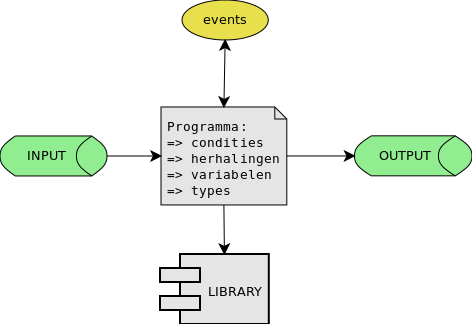
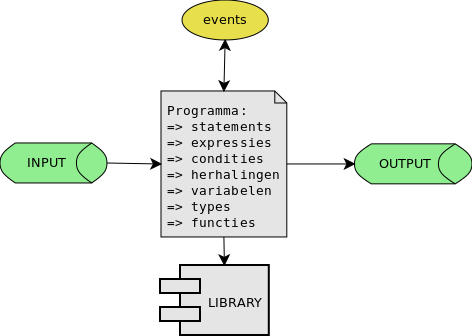
Additions to coding-intro

diff --git a/nl/code_introduction.md b/nl/code_introduction.md
@@ -3,44 +3,78 @@
 Programmeren kan **moeillijk** zijn en kan snel **demotiveren** bij de verkeerde en ongefundeerde aanpak.  
 In dit eerste hoofdstuk proberen we dit te omzeilen door eerst de basis-concepten van een programma uit te leggen.  
 
-### Wat is een programma?
-Een programma (of software) is een bestand dat een sequentie van instructies bevat die door een computer (meer bepaald een processor) worden uitgevoerd.
+### Wat doet een programma (vanop 10000 meter hoogte)?
+Een programma (en software in het algemeen) is in essentie:
 
-### Creatie van een C-programma
-#### C-programma is een tekstfile met instructies
-In deze cursus leren we programma's schrijven in C, C is een taal waarmee we deze instructies kunnen uitdrukken.  
-Het is lang niet de enige taal maar wel 1 van de talen die zeer goed past bij het ontwikkelen op micro-controllers.
+* een (of meerdere) **bestand**(en)  die een welbepaalde **sequentie van instructies** bevatten
+* die door een **computer** (meer bepaald een processor) worden **uitgevoerd**.
+
+![](../pictures/intro_external_logical_computer_view.png)
+
+Een **CPU (processor)** is in een computer verantwoordelijk voor het 1 voor 1 verwerken van deze instructies en heeft toegang tot een geheugen voor het opslaan van data.
+
+### Structuur van een programma's
+
+Binnen zo een programma zijn er verschillende soorten instructies:  
+
+* Berekeningen maken
+* Afdrukken van het resultaat op een scherm of een andere medium
+* Herhalen van instructies
+* Enkel uitvoeren van deze instructies onder bepaalde voorwaarden
+* Lezen van randapparatuur (bv. scherm, toetsenbord, ...)  
+* ...
+
+![](../pictures/basic_structure_programm.png)
+
+> In somige gevallen kunnen deze instructies zelfs opgeroepen worden bij bepaalde events (wordt pas later besproken)
+
+Hoe dat dit in zijn werk gaat bekijken we aan de hand van een programmeer-taal.  
+Er bestaan veel verschillende programmeer-talen zoals:  
+* C
+* C++
+* Java
+* Python
+* C#
+* ...
+
+In deze cursus - die rond microcontrollers draait - doen we dit met C.  
+Momenteel nog altijd de meest gebruikte programmeertaal in de wereld van microctrollers en embedded programming.
+
+#### Programmeer-taal C
 
 In praktijk start een C-programma zijn leven als 1 (of meerdere) tekst-files.
 Voor dit aan te maken heb je niet meer nodig dan een teksteditor (zoals bv. notepad, vim, notepad++, emacs, ...) zoals geillustreerd hieronder:
 
-![process van programmeren](../pictures/intro_printscreen_of_editor.png)
+![](../pictures/intro_printscreen_of_editor.png)
 
-#### Compileren en linken
+##### Compileren en linken
 
 Alvorens je dat programma kan uitvoeren op het platform naar keuze (computer, microcontroller ...) moet deze tekst-file getransformeerd worden naar een uitvoerbare binaire file (in het geval van C).  
 
-![process van programmeren](../pictures/intro_position_of_writing_code.png)
-
-
+![](../pictures/intro_position_of_writing_code.png)
 
 Deze transformatie wordt uitgevoerd door 2 andere programma's - **compiler** en **linker**.  
 Deze programma's produceren  een serie van binaire instructies die kunnen worden uitgevoerd door **"centrale verwerkings éénheid"** (ook wel cpu of processor genoemd).
 
-#### Command-line
-Vooraleer te starten met microcontrollers oefenen we de basis van programmeren met c in aan de hand van command-lines-programma's.
+##### Command-line
+Ter illustratie zie je hieronder een voorbeeld van een programma dat (via de terminal) een tekstbestand (helloworld.c) transformeert naar een programma (helloworld)
 
-![Compileren](../pictures/intro_printscreen_of_gcc.png)
+![](../pictures/intro_printscreen_of_gcc.png)
 
-De instructie ```gcc helloworld.c -o helloworld``` transformeert de eerder omschreven tekst-file in een programma dat je kan uitvoeren van een command-line-terminal (voor Mac en Linux bash, voor Windows cmd of powershell).
+Hoe dat precies in zijn werk gaat wordt in het volgend hoofdstuk uitgelegd.  
+Voorlopig kan je er vanuit gaan (indien gcc geinstalleerd is) je dit onder de volgende vorm kan aanroepen:  
+```gcc <c-file> -o <programmanaam>```
+
+Vooraleer te starten met microcontrollers oefenen we de basis van programmeren met c in aan de hand van dit soort programma's dat je van de command-line kan aanroepen.
 
 Hierover volgt in de volgende hoofdstukken nog zeer veel diepgang, voorlopig focussen we ons op de eerste activiteit, namelijk het schrijven  van code.
 
 ### Basis-elementen en structuur van een progamma
-Een C-programma (en ook programma's in andere talen zoals Java, Python, C#, ...)
+Een C-programma (en ook programma's in andere talen zoals Java, Python, C#, ...) bevatten allemaal de volgende elementen:
 
-![basis structuur programma](../pictures/basic_structure_programm.png)
+![](../pictures/basic_structure_programm.png)
 
+Deze basis-elementen gaan we stap voor stap uitleggen aan de hand van een aantal voorbeelden.
 
 #### Voorbeeld 0: skelet en body van een programma
 Een klassiek c-programma begint meestal met:  
@@ -50,10 +84,6 @@ Een klassiek c-programma begint meestal met:
 * De opsomming van deze eigenlijke statements binnen een c-programma noemen we de **body** en staan altijd tussen accolades  
     * ``` {...}```
 
-Later echter meer hierover.
-Neem voorlopig aan dat deze 3 elementen nodig zijn voor een klassiek console applicatie (command line-applicatie).  
-
-
 ```
 #include <stdio.h>
 void main ()
@@ -62,7 +92,15 @@ void main ()
 }
 ```
 
-### Voorbeeld 1: body en statements
+Later echter meer hierover.  
+Neem voorlopig aan dat je tussen deze accolades je programma moet schrijven (command line-applicatie).  
+
+### Voorbeeld: Output van een programma
+
+### Voorbeeld 1: body en statements  
+
+Het eerste programma dat altijd wordt gebruikt om een taal te leren kennen is een programma dat een tekst-boodschap afrdukt
+
 ```
 #include <stdio.h>
 void main ()

diff --git a/nl/course_introduction.md b/nl/course_introduction.md
@@ -6,6 +6,7 @@ Dit is de cursus microcontrollers gegeven in ACE Groep T.
 Na digitale combinatorische logica en digitale sequentiële schakelingen, waar de studenten leerden om Programmeerbare logische devices te programmeren, is het nu de beurt aan de microcontroller.  
 
 De doelstellingen van deze cursus zijn inzicht verwerven in en te leren werken met:  
+
 * De basis van de programmeertaal C
 * AVR-assembler (enkel de noties)
 * Basis I/O periferieën en het leren aansturen ervan in de programmeertaal C
@@ -14,9 +15,10 @@ De doelstellingen van deze cursus zijn inzicht verwerven in en te leren werken m
 * Het geheugen en registeropbouw in een microcontroller (en coputersystemen in het algemeen)
 
 
-> Opmerking:  
-De student mag gebruik maken van de computers voorzien in het labo.  
+> **Opmerking:**
+> De student mag gebruik maken van de computers voorzien in het labo.  
 Als hij/zij deze cursus wil uitproberen op de eigen PC, de gebruikte software en toolchains zijn open en beschikbaar (+ getest) op de volgende OS:
+>
 * Linux (getest op Ubuntu 14.10)
 * Mac OS X (getest op Maverics)
 * Windows (getest op Windows 7)
@@ -29,12 +31,14 @@ Wel starten we reeds tijdens de 2de les
 
 ### Principes
 De meeste hoofdstukken bestaan in tijd uit:
+
 * 1/4 theorie
 * 2/4 labo's (tools, programmeren en hardware setup)
 * 1/4 evaluatie  
 
 Deze hoofdstukken worden over het algemeen gespreid over 2-3 lesdagen uitgewerkt.  
 De oefeningen worden in 2 verdeeld:
+
 * **Basis-oefeningen**  
 Oefeningen die iedereen dient te verwerken
 * **Uitbreidings-oefeningen**  
@@ -46,6 +50,7 @@ Het is de bedoeling dat we met de gehele klas dezelfde thema's aanvatten en beei
 De cursus is chronologisch opgebouwd in verschillende fases of hoodstukken.  
 In elk van deze hoofdstukken vind je volgende aspecten terug:
 #### 4 niveau's:
+
 * **Code:**  
 Het aanleren van programmeren met een focus op de C-programmeertaal.  
 Dit is meestal de start van een hoofdstuk waar we de nodige elementen aanleren die nodig zijn in de 2 in het toepassing-niveau (en ook niet meer want C is al voldoende complex).  
@@ -55,7 +60,7 @@ Dit wordt telkens ingeoefend aan de hand van korte labo-oefeningen op PC voor da
 Het low-level en embedded programmeren steunt op een goede kennis van het platform.
 Afhangende van het onderwerp zullen dieper ingaan op instructie-sets, processsor-architectuur, opbouw van communicatie-protocols, ADC, ...  
 
-* ** Elektronica **  
+* **Elektronica**  
 Herhaling van leerstof waar van toepassing
 
 * **Toepassing: tools en labo's**  
@@ -63,6 +68,7 @@ Herhaling van leerstof waar van toepassing
 
 #### Onderdelen
 ##### Introductie:  
+
 * Kennismaking
 * Introductie van programmeren  
  * Basis van programmeren en intro in C (condities, loops, variabelen)
@@ -72,7 +78,8 @@ Herhaling van leerstof waar van toepassing
  * Structuur van een microcontroller-programma
  * 1ste maal programmeren van een AVR (knipperlicht-labo op Arduino)
 
-##### Basis GPIO programmeren
+##### Basis GPIO programmeren  
+
 * Externe opbouw van een microcontroller (pins en poorten)
 * Vervolg programmeren in C: functies en procedures
 * Werken met data-types, bits en bytes, ...
@@ -80,6 +87,7 @@ Herhaling van leerstof waar van toepassing
 * Werken met hardware-programmers
 
 ##### Timers en interrupts
+
 * Macros
 * Registers
 * Timer- en interupts
@@ -91,6 +99,7 @@ Herhaling van leerstof waar van toepassing
 
 
 ##### Seriele protocollen I2C en SPI
+
 * Sensors (en "internet of things")
 * I2C
 * SPI

diff --git a/nl/chapter02_getting_started.md b/nl/chapter02_getting_started.md
@@ -1,10 +1,16 @@
 # Introductie en start-up
 
 ## Doel
-Net voldoende informatie geven om zelfstandig een c-programma te schrijven en dit te kunnen downloaden op een microcontrolller (in dit geval een arduino).
+Deze introductie dient als een warming-up en kennismaking voor de rest van de cursus.
+
+Bedoeling is net voldoende uitleg te geven om zelfstandig een c-programma te schrijven en dit te kunnen downloaden op een eenvoudig microcontrolller-board (in dit geval een arduino).
 
 ## Inhoud
+
 * Een algemene intro op microcontrollers.
   * Concepten
   * Bemerking: op elk van deze concepten wordt later dieper op in gegaan
 * Fundamenten van programmeren in het algemeen en de C-programmeer-taal specifiek
+
+[Introductie in C](./code_introduction.md)  
+[Introductie in toolchains](./tools_editors_and_ides.md)

diff --git a/nl/tools_editors_and_ides.md b/nl/tools_editors_and_ides.md
@@ -1,0 +1,1 @@
+Tools
